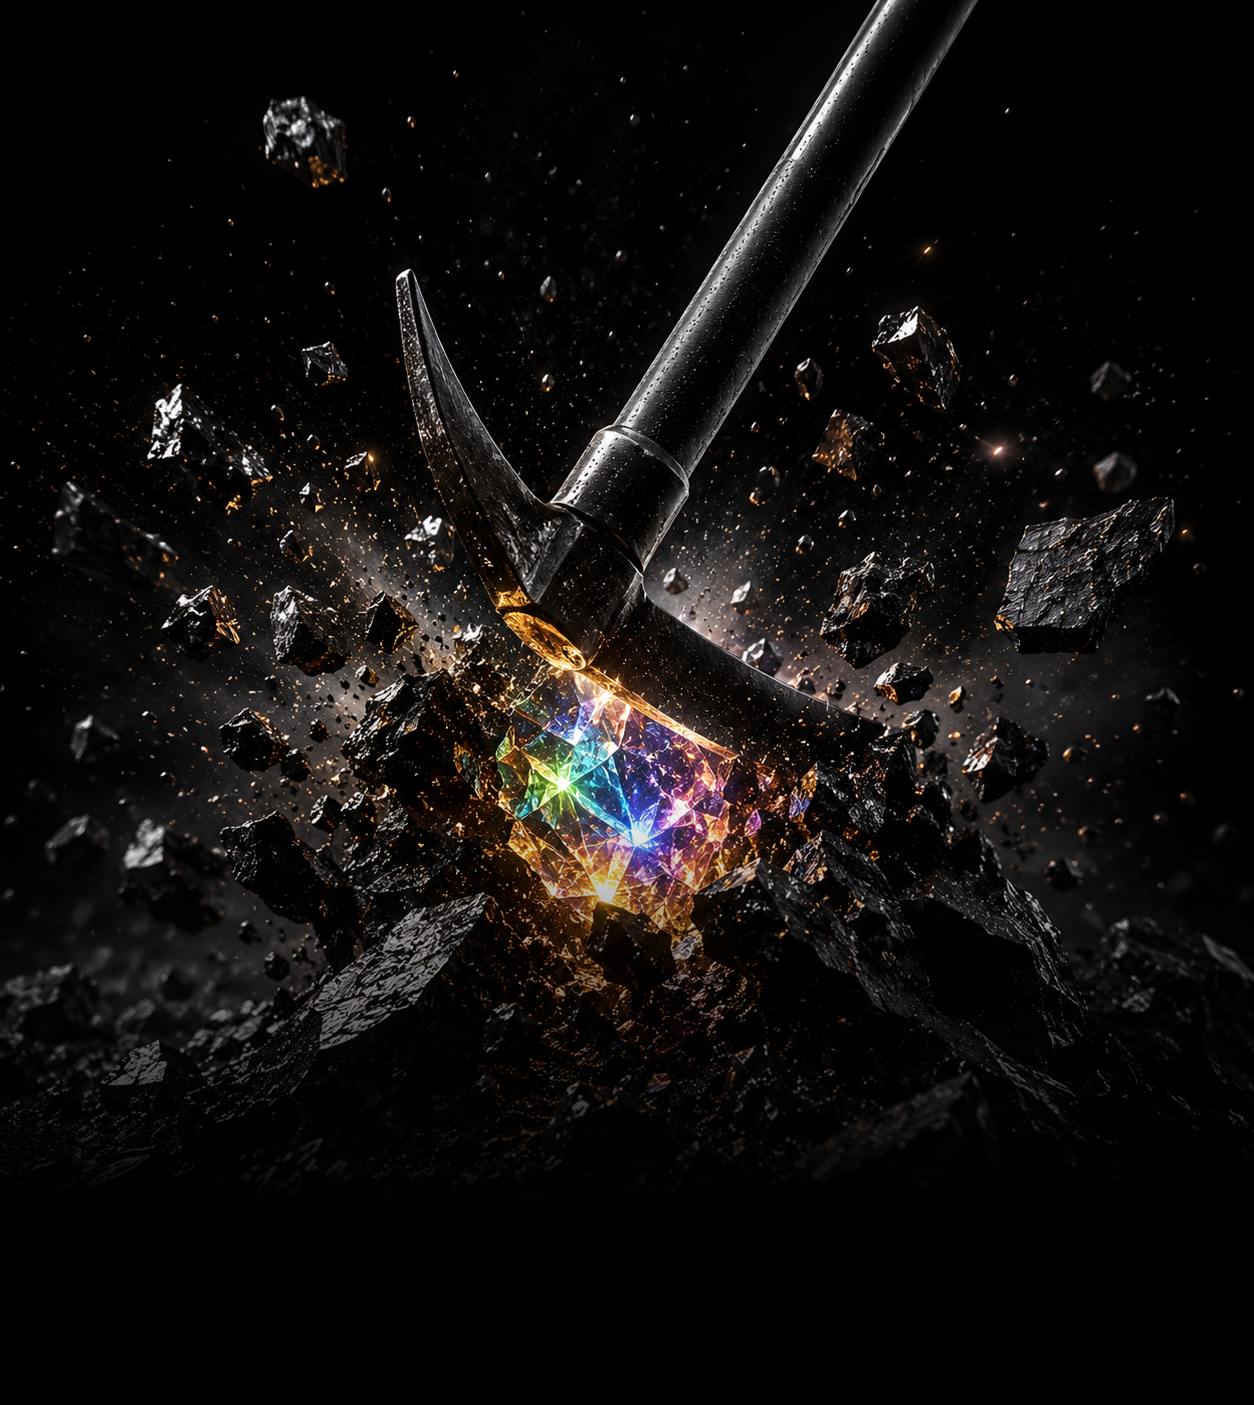
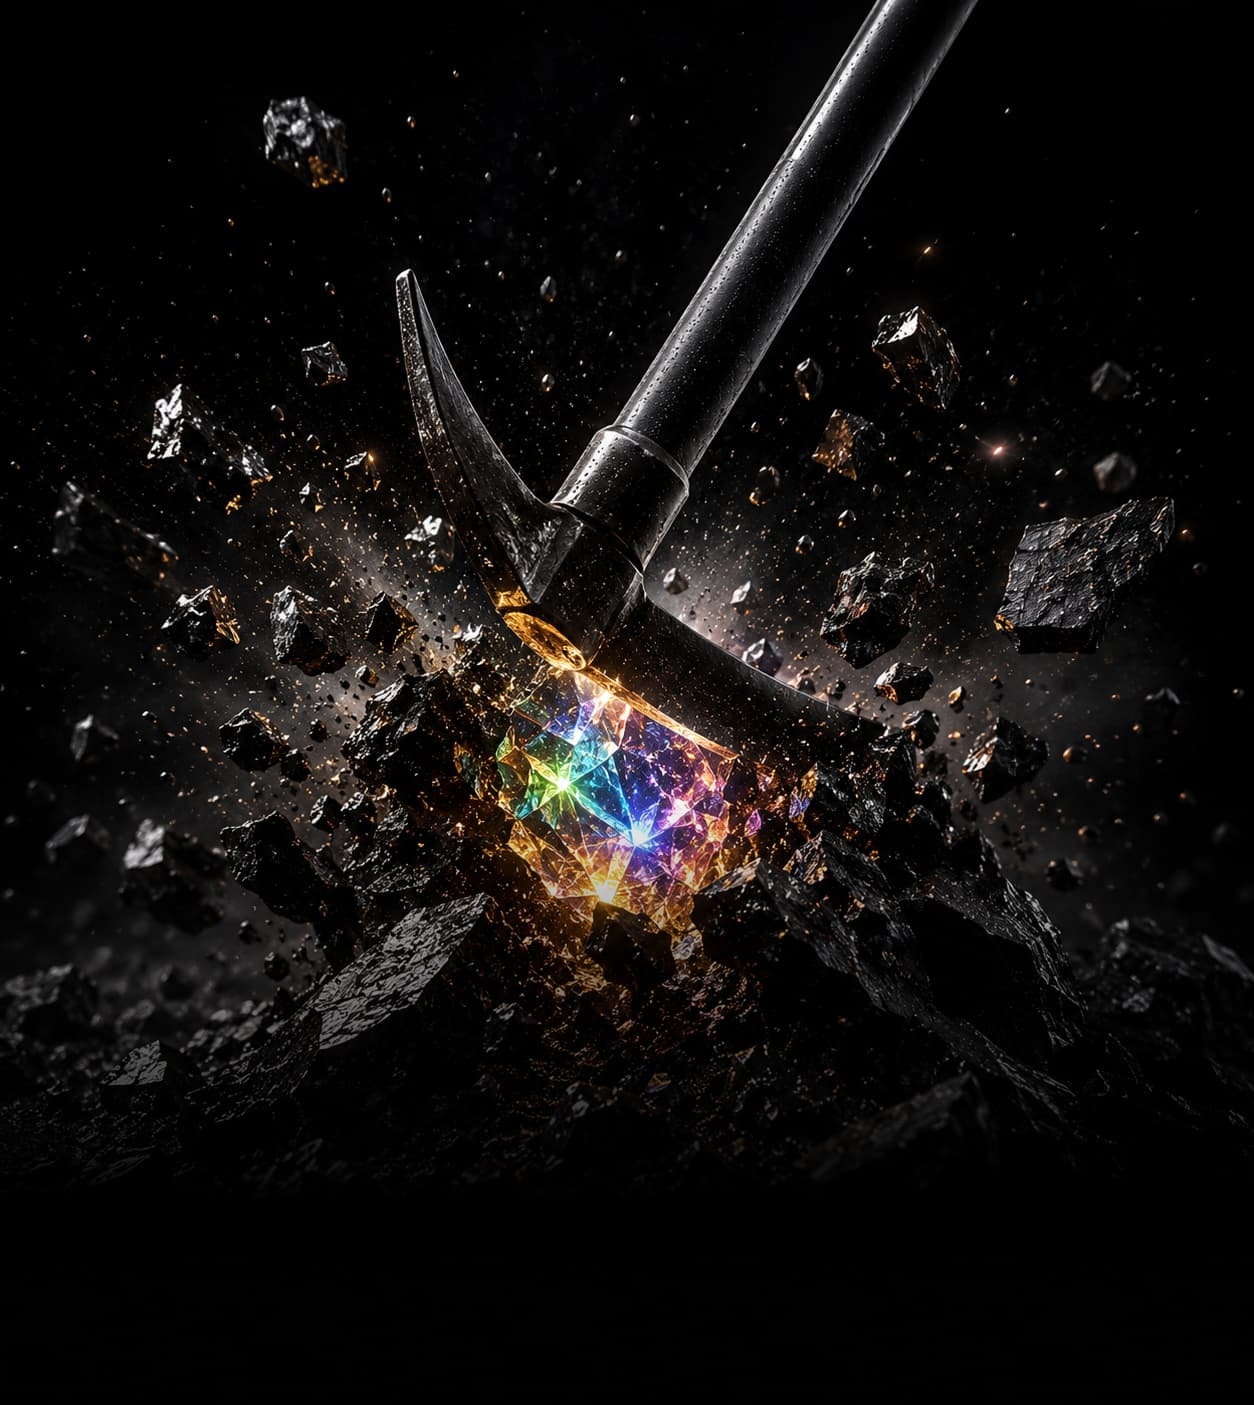
이미지 용량 줄이기

diff --git a/src/data.ts b/src/data.ts
@@ -1,29 +1,21 @@
 import { FeaturedProject, ScatterProject, ArchiveItem } from './types';
 
-const FEATURED_BX_PREVIEW_URL = new URL(
-  './images/Featured_img_1.png',
-  import.meta.url,
-).href;
-const FEATURED_BX_HOVER_URL = new URL(
-  './images/Featured_img_behind_1.png',
-  import.meta.url,
-).href;
 const PROJECT_PREVIEW_URLS = [
-  new URL('./images/project_img1.png', import.meta.url).href,
-  new URL('./images/project_img2.png', import.meta.url).href,
-  new URL('./images/project_img3.png', import.meta.url).href,
-  new URL('./images/project_img4.png', import.meta.url).href,
-  new URL('./images/project_img5.png', import.meta.url).href,
-  new URL('./images/project_img6.png', import.meta.url).href,
-  new URL('./images/project_img7.png', import.meta.url).href,
-  new URL('./images/project_img8.png', import.meta.url).href,
+  new URL('./images/project_img1.webp', import.meta.url).href,
+  new URL('./images/project_img2.webp', import.meta.url).href,
+  new URL('./images/project_img3.webp', import.meta.url).href,
+  new URL('./images/project_img4.webp', import.meta.url).href,
+  new URL('./images/project_img5.webp', import.meta.url).href,
+  new URL('./images/project_img6.webp', import.meta.url).href,
+  new URL('./images/project_img7.webp', import.meta.url).href,
+  new URL('./images/project_img8.webp', import.meta.url).href,
 ] as const;
 const PROJECT_JONGNO_FULLPAGE_URL = new URL(
-  './images/project_con_jongno.jpg',
+  './images/project_con_jongno.webp',
   import.meta.url,
 ).href;
 const PROJECT_JONGNO_MOBILE_URL = new URL(
-  './images/project_con_jongno_m.png',
+  './images/project_con_jongno_m.webp',
   import.meta.url,
 ).href;
 const PROJECT_GT_FULLPAGE_URL = new URL(
@@ -79,69 +71,47 @@ const PROJECT_CERTI_FULLPAGE_01_URL = new URL(
   import.meta.url,
 ).href;
 const PROJECT_CERTI_FULLPAGE_02_URL = new URL(
-  './images/project_con_certi2.png',
+  './images/project_con_certi2.jpg',
   import.meta.url,
 ).href;
 const PROJECT_SANGROK_DESKTOP_URL = new URL(
-  './images/project_con_sangrok_pc.jpg',
+  './images/project_con_sangrok_pc.webp',
   import.meta.url,
 ).href;
 const PROJECT_SANGROK_TABLET_URL = new URL(
-  './images/project_con_sangrok_tab.png',
+  './images/project_con_sangrok_tab.webp',
   import.meta.url,
 ).href;
 const PROJECT_SANGROK_MOBILE_URL = new URL(
-  './images/project_con_sangrok_m.png',
+  './images/project_con_sangrok_m.webp',
   import.meta.url,
 ).href;
 const ARCHIVE_FASHION_URLS = [
-  new URL('./images/fashion1.png', import.meta.url).href,
-  new URL('./images/fashion2.png', import.meta.url).href,
-  new URL('./images/fashion3.png', import.meta.url).href,
-  new URL('./images/fashion4.png', import.meta.url).href,
-  new URL('./images/fashion5.png', import.meta.url).href,
+  new URL('./images/fashion1.jpg', import.meta.url).href,
+  new URL('./images/fashion2.jpg', import.meta.url).href,
+  new URL('./images/fashion3.jpg', import.meta.url).href,
+  new URL('./images/fashion4.jpg', import.meta.url).href,
+  new URL('./images/fashion5.jpg', import.meta.url).href,
 ] as const;
 const ARCHIVE_BEAUTY_URLS = [
-  new URL('./images/beauty1.png', import.meta.url).href,
-  new URL('./images/beauty2.png', import.meta.url).href,
-  new URL('./images/beauty3.png', import.meta.url).href,
-  new URL('./images/beauty4.png', import.meta.url).href,
-  new URL('./images/beauty5.png', import.meta.url).href,
+  new URL('./images/beauty1.jpg', import.meta.url).href,
+  new URL('./images/beauty2.jpg', import.meta.url).href,
+  new URL('./images/beauty3.jpg', import.meta.url).href,
+  new URL('./images/beauty4.jpg', import.meta.url).href,
+  new URL('./images/beauty5.jpg', import.meta.url).href,
 ] as const;
 const ARCHIVE_PROMOTION_URLS = [
-  new URL('./images/Promotion1.png', import.meta.url).href,
-  new URL('./images/promotion2.png', import.meta.url).href,
-  new URL('./images/promotion3.png', import.meta.url).href,
-  new URL('./images/promotion4.png', import.meta.url).href,
-  new URL('./images/promotion5.png', import.meta.url).href,
+  new URL('./images/Promotion1.webp', import.meta.url).href,
+  new URL('./images/promotion2.webp', import.meta.url).href,
+  new URL('./images/promotion3.webp', import.meta.url).href,
+  new URL('./images/promotion4.webp', import.meta.url).href,
+  new URL('./images/promotion5.webp', import.meta.url).href,
 ] as const;
-const PRETENDARD_FONT_SYSTEM: ScatterProject['fonts'] = [
-  {
-    family: 'Pretendard',
-    weights: 'Bold',
-    usage: 'Heading 1',
-    size: 60,
-  },
-  {
-    family: 'Pretendard',
-    weights: 'Bold',
-    usage: 'Heading 2',
-    size: 40,
-  },
-  {
-    family: 'Pretendard',
-    weights: 'Bold',
-    usage: 'Heading 3',
-    size: 32,
-  },
-];
-
 export const HERO_CATEGORIES = [
   { id: 'web-ui', label: 'Web UI/UX', targetId: 'featured' },
   { id: 'visual', label: 'Visual Design', targetId: 'projects' },
   { id: 'motion', label: 'Motion', targetId: 'archive' },
 ];
-
 export const FEATURED_PROJECTS: FeaturedProject[] = [
   {
     id: 'bx',
@@ -157,8 +127,6 @@ export const FEATURED_PROJECTS: FeaturedProject[] = [
     client: 'Apex Creative Studio',
     role: 'Lead Brand Experience Designer',
     previewBg: 'bg-gradient-to-br from-neutral-800 via-neutral-900 to-black',
-    previewImage: FEATURED_BX_PREVIEW_URL,
-    hoverImage: FEATURED_BX_HOVER_URL,
     accentColor: '#a855f7',
     images: [
       'https://images.unsplash.com/photo-1618005182384-a83a8bd57fbe?q=80&w=1200&auto=format&fit=crop',
@@ -207,7 +175,7 @@ export const FEATURED_PROJECTS: FeaturedProject[] = [
   }
 ];
 
-// 상세 설명·발주사·팔레트·폰트는 팝업 레이아웃용 초안입니다.
+// 상세 설명·발주사·팔레트는 팝업 레이아웃용 초안입니다.
 // 공개 전 실제 프로젝트 명세로 교체하고, 기여도는 확정 수치를 입력합니다.
 // 별도 전체 페이지 이미지가 준비되면 각 항목의 mockupImage에 연결합니다.
 export const SCATTER_PROJECTS: ScatterProject[] = [
@@ -228,7 +196,6 @@ export const SCATTER_PROJECTS: ScatterProject[] = [
       { name: 'Sub 01', hex: '#249984' },
       { name: 'Sub 02', hex: '#9400D3' },
     ],
-    fonts: PRETENDARD_FONT_SYSTEM,
   },
   {
     id: 'proj-2',
@@ -250,7 +217,6 @@ export const SCATTER_PROJECTS: ScatterProject[] = [
       { name: 'Sub 01', hex: '#00CFFF' },
       { name: 'Sub 02', hex: '#FF5B00' },
     ],
-    fonts: PRETENDARD_FONT_SYSTEM,
   },
   {
     id: 'proj-3',
@@ -271,7 +237,6 @@ export const SCATTER_PROJECTS: ScatterProject[] = [
       { name: 'Sub · Alizarin', hex: '#D32730' },
       { name: 'Sub · Golden Yellow', hex: '#FFDF00' },
     ],
-    fonts: PRETENDARD_FONT_SYSTEM,
   },
   {
     id: 'proj-4',
@@ -293,7 +258,6 @@ export const SCATTER_PROJECTS: ScatterProject[] = [
       { name: 'Sub 01', hex: '#5D57EB' },
       { name: 'Sub 02', hex: '#219F73' },
     ],
-    fonts: PRETENDARD_FONT_SYSTEM,
   },
   {
     id: 'proj-5',
@@ -315,7 +279,6 @@ export const SCATTER_PROJECTS: ScatterProject[] = [
       { name: 'Sub 01', hex: '#008AFF' },
       { name: 'Sub 02', hex: '#F36F21' },
     ],
-    fonts: PRETENDARD_FONT_SYSTEM,
   },
   {
     id: 'proj-6',
@@ -337,7 +300,6 @@ export const SCATTER_PROJECTS: ScatterProject[] = [
       { name: 'Sub 01', hex: '#FFAA35' },
       { name: 'Sub 02', hex: '#5B3913' },
     ],
-    fonts: PRETENDARD_FONT_SYSTEM,
   },
   {
     id: 'proj-7',
@@ -358,7 +320,6 @@ export const SCATTER_PROJECTS: ScatterProject[] = [
       { name: 'Sub 01', hex: '#2F6BFF' },
       { name: 'Sub 02', hex: '#21376B' },
     ],
-    fonts: PRETENDARD_FONT_SYSTEM,
   },
   {
     id: 'proj-8',
@@ -379,7 +340,6 @@ export const SCATTER_PROJECTS: ScatterProject[] = [
       { name: 'Main', hex: '#E63927' },
       { name: 'Sub', hex: '#1E2124' },
     ],
-    fonts: PRETENDARD_FONT_SYSTEM,
   }
 ].sort((projectA, projectB) => Number(projectB.year) - Number(projectA.year));
 

diff --git a/src/components/ProjectLayerPopup.tsx b/src/components/ProjectLayerPopup.tsx
@@ -108,7 +108,6 @@ export const ProjectLayerPopup: React.FC<ProjectLayerPopupProps> = ({
   const titleId = `project-popup-title-${project.id}`;
   const descriptionId = `project-popup-description-${project.id}`;
   const colorTitleId = `project-popup-color-title-${project.id}`;
-  const fontTitleId = `project-popup-font-title-${project.id}`;
   const mockupTitleId = `project-popup-mockup-title-${project.id}`;
   const accentColor = project.colors[0]?.hex ?? '#7B00FF';
   const mockupImage = project.mockupImage;
@@ -318,63 +317,6 @@ export const ProjectLayerPopup: React.FC<ProjectLayerPopupProps> = ({
             </div>
           </section>
 
-          <section
-            aria-labelledby={fontTitleId}
-            className="border-y border-white/10 bg-white/[0.018] px-5 py-20 sm:px-10 sm:py-28 lg:px-16 lg:py-32"
-          >
-            <div className="mb-10 sm:mb-14">
-              <p className="mb-3 text-[10px] font-semibold uppercase tracking-[0.24em] text-neutral-500">
-                02
-              </p>
-              <h3 id={fontTitleId} className="text-3xl tracking-tight text-white sm:text-5xl">
-                Font System
-              </h3>
-            </div>
-
-            <div className="divide-y divide-white/10 border-y border-white/10">
-              {project.fonts.map((font) => (
-                <article
-                  key={`${font.family}-${font.usage}`}
-                  className="grid gap-8 py-8 sm:grid-cols-[minmax(0,1.25fr)_minmax(220px,0.75fr)] sm:items-center sm:py-10"
-                >
-                  <div className="min-w-0">
-                    <p
-                      className="truncate leading-none tracking-[-0.045em] text-white"
-                      style={
-                        font.size
-                          ? {
-                              fontSize: `clamp(${Math.max(font.size * 0.6, 19)}px, ${font.size / 10}vw, ${font.size}px)`,
-                            }
-                          : { fontSize: 'clamp(2.2rem, 6vw, 5rem)' }
-                      }
-                    >
-                      {font.family}
-                    </p>
-                    <p className="mt-4 text-xs uppercase tracking-[0.16em] text-neutral-600">
-                      Typography Family
-                    </p>
-                  </div>
-                  <div className="grid grid-cols-2 gap-5 text-sm sm:grid-cols-1 sm:gap-4">
-                    <div>
-                      <p className="text-[10px] uppercase tracking-[0.18em] text-neutral-600">Weight</p>
-                      <p className="mt-1 text-neutral-300">{font.weights}</p>
-                    </div>
-                    {font.size && (
-                      <div>
-                        <p className="text-[10px] uppercase tracking-[0.18em] text-neutral-600">Size</p>
-                        <p className="mt-1 tabular-nums text-neutral-300">{font.size}px</p>
-                      </div>
-                    )}
-                    <div>
-                      <p className="text-[10px] uppercase tracking-[0.18em] text-neutral-600">Usage</p>
-                      <p className="mt-1 text-neutral-300">{font.usage}</p>
-                    </div>
-                  </div>
-                </article>
-              ))}
-            </div>
-          </section>
-
           {mockupImage && (
             <section
               aria-labelledby={mockupTitleId}
@@ -382,7 +324,7 @@ export const ProjectLayerPopup: React.FC<ProjectLayerPopupProps> = ({
             >
               <div className="mb-10 sm:mb-14">
                 <p className="mb-3 text-[10px] font-semibold uppercase tracking-[0.24em] text-neutral-500">
-                  03
+                  02
                 </p>
                 <h3 id={mockupTitleId} className="text-3xl tracking-tight text-white sm:text-5xl">
                   Full Page

diff --git a/src/components/VideoCanvasDigger.tsx b/src/components/VideoCanvasDigger.tsx
@@ -21,10 +21,6 @@ export const VideoCanvasDigger: React.FC<VideoCanvasDiggerProps> = ({
     if (!container || !video) return;
 
     const startVideo = () => {
-      if (!video.src) {
-        video.src = videoUrl;
-        video.load();
-      }
       void video.play().catch(() => undefined);
     };
     const handleCanPlay = () => setUseVideo(true);
@@ -42,7 +38,7 @@ export const VideoCanvasDigger: React.FC<VideoCanvasDiggerProps> = ({
             observer.disconnect();
           }
         },
-        { threshold: 0.05 },
+        { threshold: 0.05, rootMargin: '400px 0px' },
       );
       observer.observe(container);
 
@@ -170,11 +166,12 @@ export const VideoCanvasDigger: React.FC<VideoCanvasDiggerProps> = ({
     <div ref={containerRef} className="absolute inset-0 overflow-hidden pointer-events-none z-0">
       <video
         ref={videoRef}
+        src={videoUrl}
         autoPlay
         loop
         muted
         playsInline
-        preload="none"
+        preload="metadata"
         poster={ABOUT_POSTER_URL}
         className={`w-full h-full object-cover opacity-80 ${useVideo ? 'block' : 'hidden'}`}
         aria-hidden="true"

diff --git a/src/components/ContactSection.tsx b/src/components/ContactSection.tsx
@@ -60,7 +60,7 @@ export const ContactSection: React.FC<ContactSectionProps> = () => {
           video.pause();
         }
       },
-      { threshold: 0.05 }
+      { threshold: 0.05, rootMargin: '700px 0px' }
     );
 
     observer.observe(section);
@@ -89,12 +89,13 @@ export const ContactSection: React.FC<ContactSectionProps> = () => {
           <div className="absolute -inset-[4%]">
             <video
               ref={videoRef}
+              src={CONTACT_VIDEO_URL}
               poster={CONTACT_POSTER_URL}
               muted
               loop
               playsInline
-              preload="none"
-              onCanPlay={() => setIsVideoReady(true)}
+              preload="metadata"
+              onLoadedData={() => setIsVideoReady(true)}
               tabIndex={-1}
               aria-hidden="true"
               className={`h-full w-full object-cover object-center transition-opacity duration-700 ease-out motion-reduce:transition-none ${

diff --git a/src/components/AboutLayerPopup.tsx b/src/components/AboutLayerPopup.tsx
@@ -28,14 +28,14 @@ const ABOUT_MEDIA = {
     new URL('../images/about_crack5.jpg', import.meta.url).href,
     new URL('../images/about_crack6.jpg', import.meta.url).href,
   ],
-  atmosphere: new URL('../images/about_dust.png', import.meta.url).href,
+  atmosphere: new URL('../images/about_dust.jpg', import.meta.url).href,
   conceptCardBack: new URL('../images/about_card_bh.png', import.meta.url).href,
   conceptCards: [
     new URL('../images/about_card1.png', import.meta.url).href,
     new URL('../images/about_card2.png', import.meta.url).href,
     new URL('../images/about_card3.png', import.meta.url).href,
     new URL('../images/about_card4.png', import.meta.url).href,
-    new URL('../images/about_card5.png', import.meta.url).href,
+    new URL('../images/about_card5.webp', import.meta.url).href,
     new URL('../images/about_card6.png', import.meta.url).href,
   ],
 } as const;

diff --git a/src/components/CustomCursor.tsx b/src/components/CustomCursor.tsx
@@ -1,6 +1,6 @@
 import React, { useEffect, useRef } from 'react';
 
-const CURSOR_IMAGE_URL = new URL('../images/cursor.png', import.meta.url).href;
+const CURSOR_IMAGE_URL = new URL('../images/cursor.webp', import.meta.url).href;
 
 export const CustomCursor: React.FC = () => {
   const cursorRef = useRef<HTMLDivElement | null>(null);

diff --git a/src/types.ts b/src/types.ts
@@ -44,12 +44,6 @@ export interface ScatterProject {
     name: string;
     hex: string;
   }>;
-  fonts: Array<{
-    family: string;
-    weights: string;
-    usage: string;
-    size?: number;
-  }>;
 }
 
 export interface ArchiveItem {
